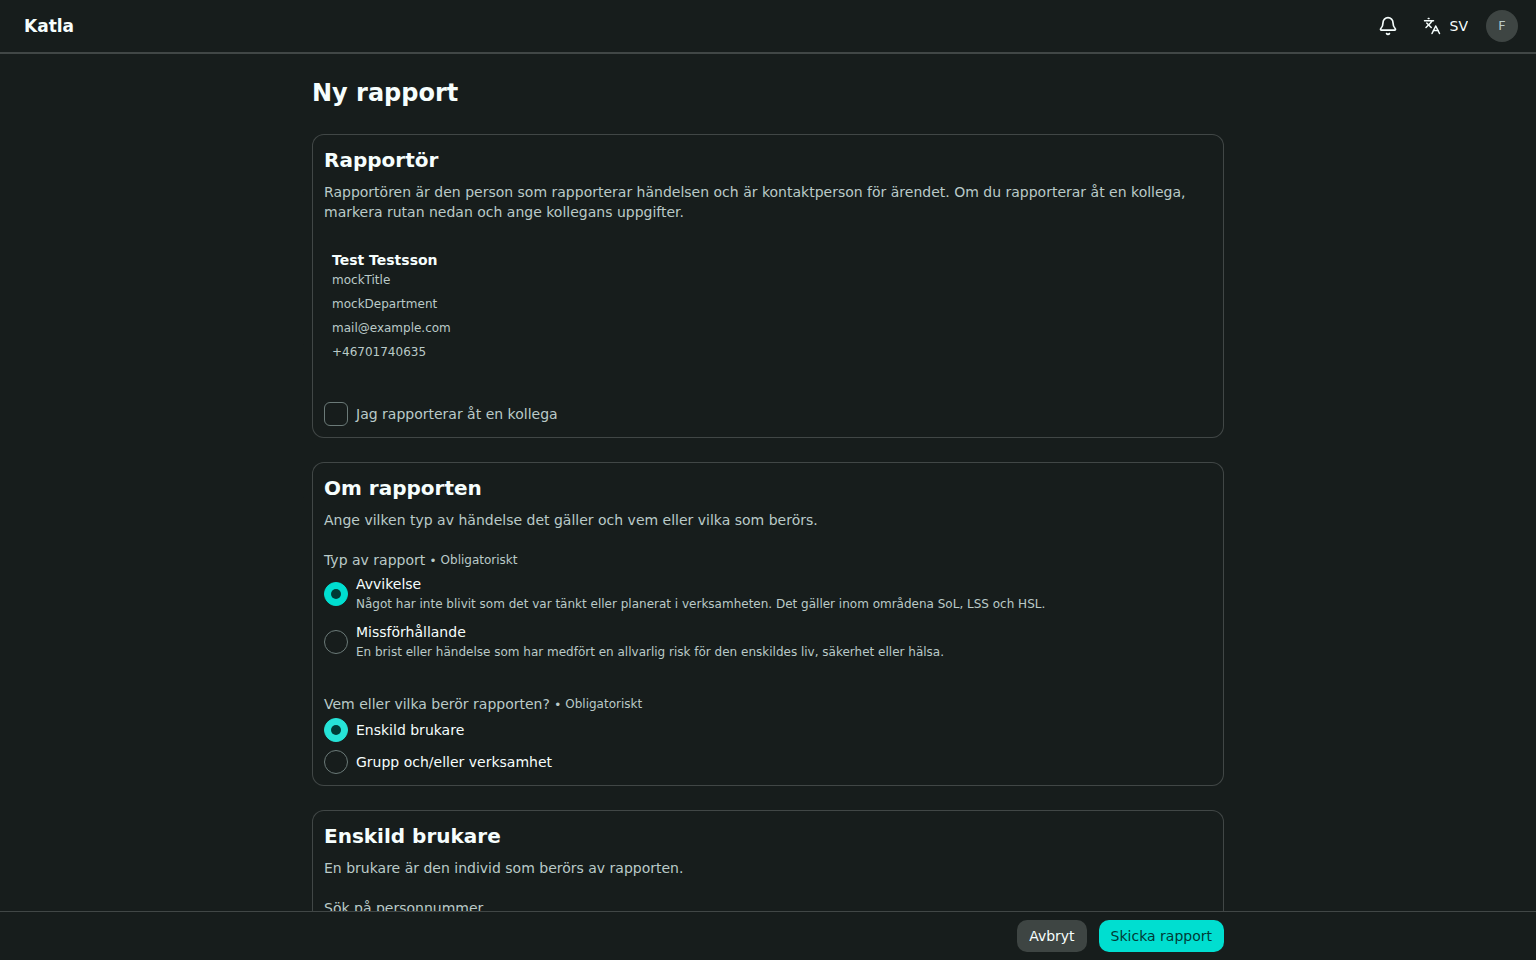
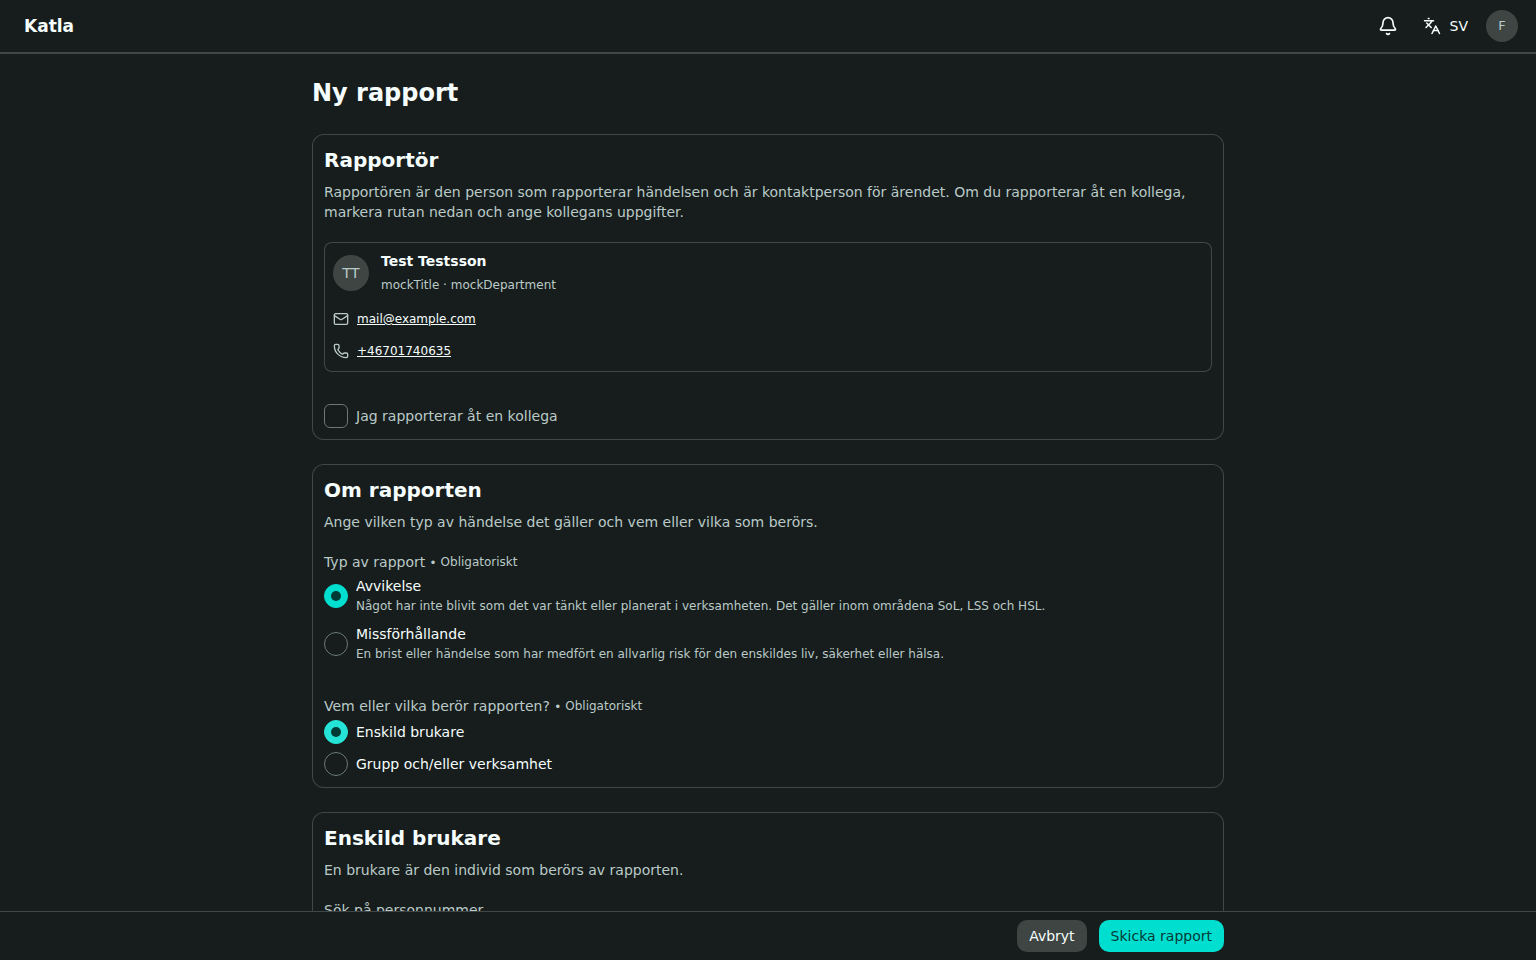
docs: record verified stakeholder profile presentation

diff --git a/docs/astryx-preview.html b/docs/astryx-preview.html
@@ -156,6 +156,11 @@
     </figure>
     <footer>
       <p>
+        Personprofiler med verksamhet och kontaktlänkar:
+        <a href="astryx-screenshots/person-profile-1536.png">Desktop · 1536 px</a> ·
+        <a href="astryx-screenshots/person-profile-431.png">Mobil · 431 px</a>
+      </p>
+      <p>
         Formulärdetaljer:
         <a href="astryx-screenshots/native-date-focus-1536.png">Datum och tid med högerställda ikoner</a> ·
         <a href="astryx-screenshots/native-select-focus-1536.png">Rundad fokusmarkering i select</a> ·

diff --git a/docs/astryx-evaluation.md b/docs/astryx-evaluation.md
@@ -14,7 +14,7 @@ Utvecklingen görs i isolerade git-worktrees för att hålla rättningarna åtsk
 | Översikt | Statusfilter är synliga ovanför samlingen. Separata mobilheaders, helskärmsmeny, sidebar och viewport-context är borttagna. `useOverviewErrands` äger hämtningen för båda presentationerna och totalen kommer från samma listsvar. Sidomenyns separata räkneanrop och count-store är borttagna. |
 | Rapporter | Kompakta `ListItem`-rader på mobil, semantisk `Table` på desktop. En riktig länk per rapport. Desktop behåller sortering, sidstorlek, radhöjd och paginering; mobil behåller läs in fler. |
 | Ärende och registrering | Ärendenummer och status finns vid sidrubriken. `TabList` äger länkar mellan innehållsvyer. Registrering och utkast använder `LayoutFooter` utanför det skrollbara formuläret även på desktop. Åtgärdsraden tar egen plats och täcker inte sista fältet. Knappgrupperna äger radens kompakta padding; safe-area-regeln lägger bara till enhetens faktiska skyddszon, utan extra bottenmarginal på desktop. I CI-bilderna är raden 49px på desktop (tidigare 89px) och 53px på mobil (tidigare 85px), vid en knapprad utan extra safe area. Knapparnas storlek är oförändrad. Mobilguiden använder samma layoutmodell; nästa steg får rubrikfokus. |
-| Personer | `StakeholderRow` ersätter nästlade personkort med Astryx `ListItem`. Namn och kontaktuppgifter hålls ihop, borttagning och manuellt tillägg använder synliga sekundärknappar. Sökfältets bredd är stabil under inmatning; efter träff finns en textmärkt återställning. |
+| Personer | `StakeholderRow` använder Astryx `ListItem`, `Avatar`, `Stack`, `Text` och `Link` för en kompakt personpresentation. Initialer, namn och en nedtonad identitetsrad grupperas över kontaktlänkar med ikoner. En gemensam avgränsad listyta håller ihop personerna. Borttagning har en synlig sekundärknapp med personens namn i det tillgängliga namnet; knappen radbryts vid smala innehållsbredder. Sökfältets bredd är stabil under inmatning; efter träff finns en textmärkt återställning. |
 | Notifieringar | Astryx `Dialog` och `Layout` skiljer fast rubrik/stängknapp från skrollande `ListItem`-rader. Beskrivning, ärendelänk, avsändare och tid visas kompakt utan separat upprepad händelserad. Befintlig sortering, kvittering och felhantering behålls. |
 | Meddelanden | Konversation före redigerare, med genväg till skrivfältet. Formatering öppnas vid behov med `Collapsible`. Uppdatering och formateringsmeny behåller oskickad text. Filbilagor och sändningslås finns kvar. |
 | Laddning | Vyspecifika `Skeleton` för rapportlista, tabell, ärende, meddelanden och notifieringar. Dekorationerna döljs från hjälpmedel; omgivande region beskriver laddning. Fel ersätter inte riktiga data med ett falskt tomt tillstånd. Uppdatering/läs in fler behåller redan hämtat innehåll. |
@@ -27,6 +27,8 @@ Utvecklingen görs i isolerade git-worktrees för att hålla rättningarna åtsk
 ## Vad appen fortsatt behöver äga
 
 RJSF:s externa fält-id:n, formulärvärden och felkopplingar är ett integrationskontrakt. Där kompletta bibliotekskontroller äger egna id:n används deras kopplingar; där externa id:n krävs används Astryx `Field`-primitiver. `focus-first-error` navigerar från valideringsfel till rätt fält. Detta ska inte ersättas med en andra generell input-wrapper. Native datum- och tidsfält använder blocklayout så att webbläsaren placerar indikatorn vid fältets slut. Appens fallback för fokus ligger i reset-lagret: Astryx får själv undertrycka det inre fältets outline och markera sin rundade behållare.
+
+Personradens länkar och borttagningsknapp är separata kontroller. Astryx målar även fokus runt hela `ListItem` när något barn fokuseras; radens begränsade `!outline-0` tar bort denna dubbla ram, medan varje kontroll behåller sin egen fokusmarkering. Avataren är dekorativ eftersom namnet redan står bredvid. Befintlig policy för reducerad brukarinformation och låsta ärenden styr fortfarande vilka uppgifter och åtgärder som renderas. Kontaktlänkarna är uttryckligen aktiva även inne i ett låst fieldset; bara länkarna undantas från pekarblockeringen. Understruken primär text behåller kontrasten även i den låsta ytans nedtonade presentation.
 
 `RichTextEditor` äger en Quill-instans, HTML/ren text, formatering, Tab-beteende och cleanup. Sanitering ligger kvar vid HTML-gränsen. `MessageComposer` äger webbläsarens `File`-objekt; conversation-servicen äger befintligt multipart-format. Ett misslyckat sändningsförsök bevarar innehållet.
 
@@ -52,17 +54,17 @@ Komponentbiblioteket är låst till 0.5.2. En uppgradering kräver regenererat t
 
 ## Verifiering
 
-Kod och bilder verifierade på `90fca2e397813ee5b8d299793086a8647120fa78`, den 7 september 2026:
+Kod och bilder verifierade på `163007d6502c9faf08ab302e496aad2215def171`, den 7 september 2026:
 
 | Kontroll | Resultat |
 | --- | --- |
-| [Frontend CI](https://github.com/Sundsvallskommun/web-app-katla-sm/actions/runs/34143143177) | Lint, format, typkontroll och 323 enhetstester godkända. |
-| Chromium mot standalone-paketet | 99/99 scenarier godkända, inga omkörningar, cirka 1,7 minuter. |
-| Axe | 16 scanningar, inga rapporterade regelbrott eller JavaScript-fel. |
+| [Frontend CI](https://github.com/Sundsvallskommun/web-app-katla-sm/actions/runs/34145407811) | Lint, format, typkontroll och 329 enhetstester godkända. |
+| Chromium mot standalone-paketet | 99/99 scenarier godkända, inga omkörningar, cirka 2,0 minuter. |
+| Axe | 16 vy-/temascanningar utan rapporterade regelbrott eller JavaScript-fel. Dessutom två riktade scanningar av låsta personprofiler utan rapporterade regelbrott. |
 | Backend CI | Lint, format, typkontroll och 167 tester godkända; 4 befintliga tester överhoppade. |
-| [RHEL 8.10](https://github.com/Sundsvallskommun/web-app-katla-sm/actions/runs/34143143045) | Frontend- och backend-byggen samt standalone-bildbehandling godkända. |
+| [RHEL 8.10](https://github.com/Sundsvallskommun/web-app-katla-sm/actions/runs/34145407915) | Frontend- och backend-byggen samt standalone-bildbehandling godkända. |
 
-Bildgalleriets 32 bilder av vyer, teman, laddning, formulär och notifieringar kommer från samma kodcommit och CI-körning. `incomplete` omfattar `aria-valid-attr-value` i 16 scanningar och `color-contrast` i 6; de räknas inte som godkända kontroller. Det gäller bland annat stängda popup-kontrollers referenser och kontrast som motorn inte kunde avgöra. Se fullständiga noder i audit-filen.
+Bildgalleriets 34 bilder av vyer, teman, laddning, formulär och notifieringar kommer från samma kodcommit och CI-körning. `incomplete` omfattar `aria-valid-attr-value` i 16 scanningar och `color-contrast` i 6; de räknas inte som godkända kontroller. Det gäller bland annat stängda popup-kontrollers referenser och kontrast som motorn inte kunde avgöra. Se fullständiga noder i audit-filen.
 
 Lokal validering denna omgång omfattar enbart Astryx CLI, formatering, lint och minnesbegränsad typkontroll för app, unit och E2E. Inga lokala appservrar, byggjobb eller fulla testsuiter har startats efter minnesincidenten.
 
@@ -75,6 +77,7 @@ CI bygger med Webpack och kör Chromium mot det färdiga standalone-paketet med 
 - Rich text, bilagor, teckengräns, uppdatering och oskickat innehåll.
 - Registreringsguidens åtgärder och rubrikfokus vid 390×568px.
 - Stabil sökfältsbredd under inmatning, manuell person med sammanhållna kontaktuppgifter och synliga tilläggs-/borttagningsknappar.
+- Personprofilens kontaktlänkar, en fokusring per kontroll, borttagningsknappens radbrytning samt namngivning på svenska/engelska. Låsta profiler tillåter kontaktlänkar men döljer borttagning; reducerad brukarinformation förblir dold. Pekaråtkomst och kontrast kontrolleras även i låsta profiler.
 - Datum-/tidsindikatorer vid fältets slut, en rundad fokusmarkering och hela textfältet synligt ovanför åtgärdsraden vid riktig Tab-navigation.
 - Notifieringshistorik med fast rubrik/stängknapp och en fokusring per rad vid 390/1536px; Escape och återställt fokus.
 - Axe på fyra vyer i ljust/mörkt vid 390/1536px. `incomplete` redovisas separat i [audit.json](astryx-screenshots/audit.json).

diff --git a/docs/astryx-mobile-ux.md b/docs/astryx-mobile-ux.md
@@ -14,7 +14,7 @@ The first migration replaced controls but kept separate mobile headers, a fullsc
 | Formatting is disclosed on demand | The initial editor occupies less height. Expanding/collapsing the toolbar never unmounts the editor or its form state. | Astryx `Collapsible` inside `RichTextEditor` |
 | Skeletons belong to their views | Placeholders match rows, details and messages. There is no generic skeleton factory with layout variants to maintain. One surrounding status announces loading; decorative shapes are hidden from assistive technology. Errors take precedence over loading. Refresh/load-more retain existing results. | Three small view-specific skeleton components; table loading rows stay in the table |
 | Native shell and layout slots | Astryx owns the main landmark, skip link and scroll regions. Registration and draft actions use `LayoutFooter` outside the scrolling form on desktop, matching the mobile wizard. The footer occupies real layout space and needs no scroll listeners or fixed-position offsets. Its padding is zero; the existing action stacks own horizontal alignment and spacing step 2 above/below the buttons. Safe-area CSS adds only the actual device inset, removing the previously duplicated bottom spacing without shrinking button targets. Token-based scroll padding reserves room for the complete focus outline when tabbing to a field, following [CSS scroll-padding](https://www.w3.org/TR/css-scroll-snap-1/#scroll-padding). | `AppShell`, `Layout`, `ErrandLayoutContent`, `MobileWizard` |
-| Stable person search and compact people | Typing never inserts another button beside the field. A successful search replaces Search with a labelled reset action; editing a query clears its stale search error. Name and contact details share one column in `ListItem`, with a visible secondary remove button. The former card and its unused extra-content path are removed. | `StakeholderList`, `StakeholderRow` |
+| Stable person search and compact people | Typing never inserts another button beside the field. A successful search replaces Search with a labelled reset action; editing a query clears its stale search error. An initials avatar anchors the name and supporting identity/organization line. Email and telephone links form a contact group below it. A wrapping Stack moves the single secondary remove button below the profile when its available width is narrow; its accessible name identifies the person. The non-clickable ListItem suppresses only its own whole-row outline so each independent link/button retains a clear focus ring. Contact visibility and content locking stay with their existing policies. Contact links alone opt into pointer events and an enabled accessibility state inside the lock boundary; underlined primary text keeps their contrast in the dimmed read-only surface. One bordered, muted list surface groups the rows, using theme-backed utilities. The former card and its unused extra-content path are removed. | `StakeholderList`, `StakeholderRow` |
 | Compact notification history | `Dialog` with `Layout` keeps the padded header and close button outside the scrolling history. `ListItem` delegates row clicks to the existing native link; the sender and time share a wrapping metadata line. The API description appears once, with subtype as fallback. The row owns a single keyboard focus ring. Existing sorting, acknowledgement and error handling remain. Skeleton rows represent initial loading. | `NotificationsWrapper`, `NotificationItem`, existing notification store/service |
 | One field focus owner | The app's fallback focus rule lives in the reset layer so Astryx can suppress an inner input outline and paint the rounded wrapper. RJSF native controls retain their own focus ring and block layout, preserving native picker placement. The textarea reveals its full control on focus because native caret scrolling alone can leave its bottom behind the action footer; the real Tab flow is covered in Playwright. | `katla.css`, existing RJSF widget stylesheet and `TextareaWidget` |
 | Low-chroma surfaces, teal accent, stronger contrast | The accent identifies actions; the generated neutral ramp retains a subtle brand tint. Astryx’s high-contrast scale keeps inactive filter labels readable on dark surfaces and strengthens form boundaries. Status is a labelled Token, while Badge remains for counts. | `src/theme/katla.ts`, `StatusLabel` |
